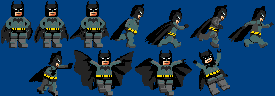
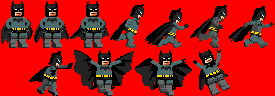
Sprites finales!!

diff --git a/player.py b/player.py
@@ -1,5 +1,5 @@
 from classes import *
-transColor = pygame.Color(0,0,0)
+transColor = pygame.Color(255,0,0)
 class Player:
     def __init__(self, x, y): #crea el jugador en una posicion x,y
         self.spriteSheet = pygame.image.load('data/playerSheet.png') #carga el sprite de mario...
@@ -41,18 +41,19 @@ class Player:
         if self.action == 'standing': #le dice que hacer si esta quieto
             if self.state == 'left':
                 self.sprite = self.standing
-                self.sprite = pygame.transform.flip(self.standing, True, False)
+                self.sprite = self.standing
             elif self.state == 'right':
                 self.sprite = self.standing
+                self.sprite = pygame.transform.flip(self.sprite, True, False)
         elif self.action == 'walking': # le dice que hacer si camina o no
             if self.state == 'left':
-                self.rect.left -= 12
-                self.sprite = self.__get_sprite__(self.walking)
-
-            elif self.state == 'right':
-                self.rect.right += 12
+                self.rect.left -= 10
                 self.sprite = self.__get_sprite__(self.walking)
                 self.sprite = pygame.transform.flip(self.sprite, True, False)
+            elif self.state == 'right':
+                self.rect.right += 10
+                self.sprite = self.__get_sprite__(self.walking)
+
 
     def __draw__(self, frame): #dibuja a mario en la pantalla segun si camina o no
        #pygame.draw.rect(frame, (255, 0, 0), self.rect)
@@ -61,10 +62,10 @@ class Player:
 
         elif self.action == 'walking':
             if self.state == 'left':
-                frame.blit(self.sprite, (self.rect.left, self.rect.top + 10))
+                frame.blit(self.sprite, (self.rect.left, self.rect.top))
 
             elif self.state == 'right':
-                frame.blit(self.sprite, (self.rect.left - 16, self.rect.top + 10))
+                frame.blit(self.sprite, (self.rect.left, self.rect.top))
 
     def __get_sprite__(self, sprites):
         self.sprite_index += 1

diff --git a/classes.py b/classes.py
@@ -24,11 +24,11 @@ class Juego():
         self.x_plat = 100
         self.y_plat = 550
         self.W_plat = 600
-        self.H_plat = 25
+        self.H_plat = 5
 
         self.level = 1
 
-        self.base = plataformas(0,625,1000,25)
+        self.base = plataformas(0,625,1000,5)
 
         self.p1 = plataformas(self.x_plat,self.y_plat,self.W_plat,self.H_plat)
 
